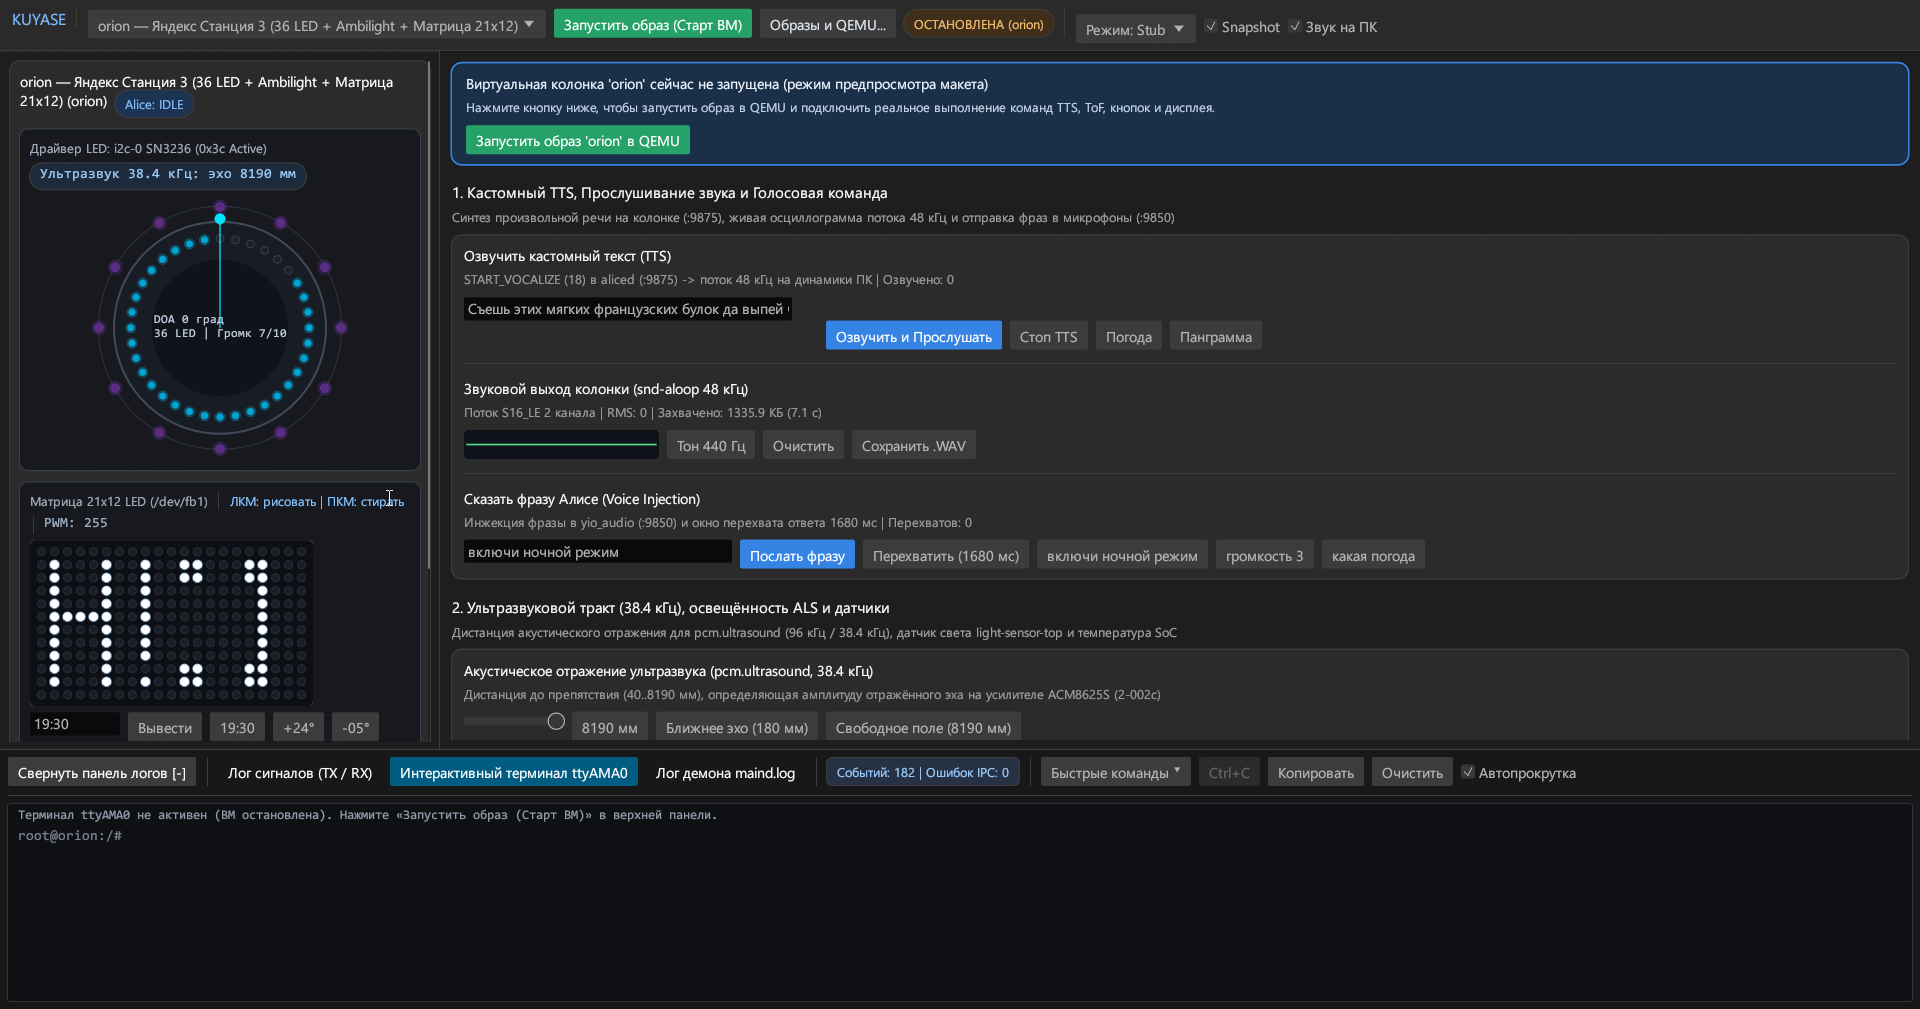
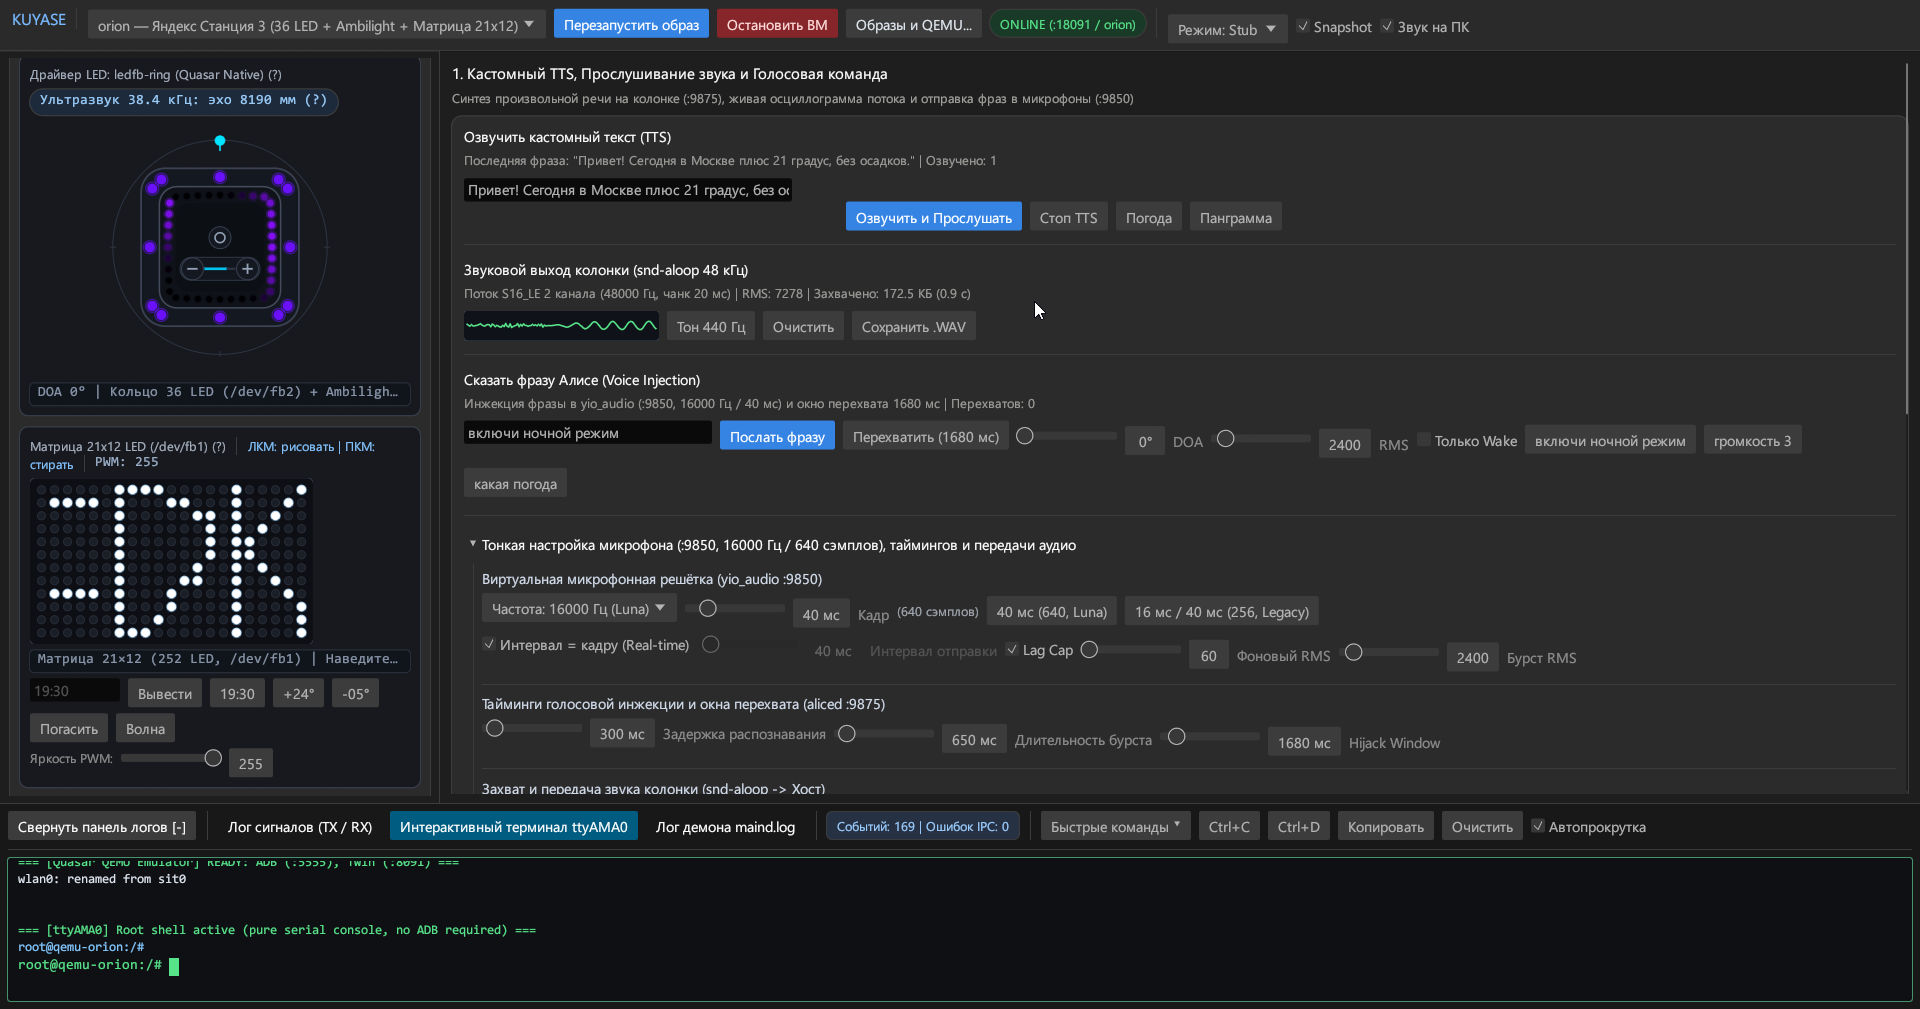
docs: document headless runner, ADR-0001, and updated GUI screenshots

diff --git a/README.md b/README.md
@@ -11,6 +11,8 @@
 > Репозиторий содержит только исходный код Cargo Workspace (`protocol`, `hw-bridge`, `kuyase`), гостевой инициализатор и конфигурацию ядра Linux. Дамп прошивки необходимо снять со своей колонки по ADB (см. [`DUMP_GUIDE.md`](./DUMP_GUIDE.md)), собрать или взять из тематических ресурсов.
 
 ![](assets/GUI.png)
+![](assets/GUI2.png)
+![](assets/GUI3.png)
 
 https://github.com/user-attachments/assets/0a25b0c4-0914-45d7-bdc7-101630d444c2
 
@@ -18,7 +20,7 @@ https://github.com/user-attachments/assets/0a25b0c4-0914-45d7-bdc7-101630d444c2
 
 ## Быстрый старт (готовая портативная сборка)
 
-Для запуска готовой сборки из [**GitHub Releases**](https://github.com/vypivshiy/kuyase/releases) (`kuyase-win64-portable.zip` для Windows x64 или `kuyase-linux64-portable.tar.gz` для Linux x64) не требуется устанавливать Rust, WSL2 или `adb` — пропатченное гостевое ядро `kuyase-kernel-arm64.img`, гостевой инициализатор и демон `qemu-hw-bridge` уже включены в архив.
+Для запуска готовой сборки из [**GitHub Releases**](https://github.com/vypivshiy/kuyase/releases) (`kuyase-win64-portable.zip` для Windows x64 или `kuyase-linux64-portable.tar.gz` для Linux x64; для CI и E2E-тестов без графического окружения — минимальные архивы `kuyase-headless-win64.zip` и статический `kuyase-headless-linux64.tar.gz`) не требуется устанавливать Rust, WSL2 или `adb` — пропатченное гостевое ядро `kuyase-kernel-arm64.img`, гостевой инициализатор и демон `qemu-hw-bridge` уже включены в архив.
 
 ### 1. Установка QEMU
 
@@ -65,8 +67,15 @@ https://github.com/user-attachments/assets/0a25b0c4-0914-45d7-bdc7-101630d444c2
 cargo build --release -p qemu-hw-bridge --target armv7-unknown-linux-musleabihf
 cp -f target/armv7-unknown-linux-musleabihf/release/qemu-hw-bridge guest-init/bin/qemu-hw-bridge
 
-# 2. Сборка нативного приложения и CLI-раннера kuyase:
+# 2. Сборка нативного приложения (GUI + CLI) kuyase:
 cargo build --release -p kuyase
+
+# 3. Опционально: сборка легковесного headless-раннера без GUI (без зависимости eframe):
+cargo build --release -p kuyase --no-default-features
+
+# 4. Опционально: статическая кросс-компиляция Linux x86_64 headless-раннера (musl, работает в любых CI-контейнерах):
+rustup target add x86_64-unknown-linux-musl
+cargo build --release -p kuyase --no-default-features --target x86_64-unknown-linux-musl
 ```
 
 ### 3. Пересборка гостевого ядра (Linux / WSL2)

diff --git a/CONTEXT.md b/CONTEXT.md
@@ -40,6 +40,10 @@ _Avoid_: веб-бэкенд, HTTP-сервер, сервер дашборда.
 Интерактивная 60 FPS графическая сцена и рабочее пространство нативного десктопного приложения `kuyase` (`eframe` / `egui`), подключённое к аппаратному мосту по дуплексному TCP-потоку (`:18091 -> :8091`), визуализирующее светодиоды, дисплей, датчики и звук колонки в реальном времени и отправляющее команды `HostCommand`.
 _Avoid_: веб-панель, браузерный дашборд, админка.
 
+**Безголовый раннер (`Headless Runner` / `kuyase-headless`)**:
+Автономная CLI-сборка эмулятора без графической подсистемы и оконных зависимостей ОС, предназначенная для запуска гостевых образов, снятия дампов, подготовки `.ext4` и прогона автоматизированных сквозных (E2E) и интеграционных тестов в CI и контейнерных окружениях.
+_Avoid_: консольная версия, серверный демон, урезанный эмулятор.
+
 **Режим стабов (`Stub Mode`)**:
 Штатный режим запуска эмулятора (`quasar.mode=stub`), при котором оригинальный монолит `maind` отключён, а локальные IPC-сокеты, звуковой тракт и светодиодные анимации обслуживаются аппаратным мостом.
 _Avoid_: лёгкий режим (`lightweight`), демо-режим, мок-режим.

diff --git a/docs/adr/0001-headless-builds-and-musl-target.md b/docs/adr/0001-headless-builds-and-musl-target.md
@@ -1,0 +1,10 @@
+# Headless CLI Builds via Optional `gui` Feature and Static Linux `musl` Target
+
+Status: accepted
+
+We gate `eframe` and `kuyase::gui` behind a default-enabled Cargo feature (`gui`) in the `kuyase` crate and distribute standalone `kuyase-headless` (`x86_64-unknown-linux-musl` via `rust-lld`) and `kuyase-headless.exe` (`x86_64-pc-windows-msvc`) binaries in dedicated minimal release archives (`kuyase-headless-linux64.tar.gz`, `kuyase-headless-win64.zip`). Full desktop builds (`kuyase` / `kuyase.exe`) preserve launching the GUI when invoked with no arguments, while both builds require an explicit `--headless` flag for headless `run` invocations so accidental double-clicks on `kuyase-headless` fail fast with usage instructions rather than silently starting a background VM.
+
+## Considered Options
+
+- **Feature flag (`default = ["gui"]`) in `kuyase` vs. separate workspace crate**: Every non-GUI module in `kuyase` is already pure Rust with zero references to `eframe` or `crate::gui`; an optional `gui` feature eliminates `eframe` from the dependency graph under `--no-default-features` without duplicating CLI argument parsing or splitting the crate.
+- **Static `x86_64-unknown-linux-musl` vs. dynamic `x86_64-unknown-linux-gnu` for Linux headless builds**: Because `kuyase` without `eframe` has only pure-Rust dependencies (`miniz_oxide`, `tar`, `zip`, `serde`), targeting `x86_64-unknown-linux-musl` with `rust-lld` produces a zero-dependency static ELF that runs in any minimal CI container (without `glibc`, X11, Wayland, or OpenGL libraries) and cross-compiles directly from a Windows host without WSL2.

diff --git a/tests_e2e/README.md b/tests_e2e/README.md
@@ -28,5 +28,6 @@ KUYASE_E2E_BOARD=station2 python -m unittest tests_e2e/test_03_airplay.py -v
 | Переменная | Назначение |
 | :--- | :--- |
 | `KUYASE_E2E_BOARD` | Профиль платы (например, `station2`, `cucumber`, `orion`) или список через запятую. По умолчанию обходит все `work/*-system.ext4`. |
+| `KUYASE_BIN` | Явный путь к исполняемому файлу `kuyase` или `kuyase-headless` (по умолчанию ищет `kuyase[.exe]` и `kuyase-headless[.exe]` в `target/release/`, `target-headless/release/`, `Releases/` и корне репозитория). |
 | `YAM_REPO_DIR` | Путь к локальной рабочей копии репозитория `yam` (по умолчанию `../yam`, если каталог существует, иначе берётся из `nyakokitsu/yam`). |
 | `KUYASE_AIRPLAY_PKG` | Путь к локальному пакету `station-airplay-*.yampkg` для `test_03_airplay.py` (по умолчанию скачивается из `ryysel/Station-airplay` Releases). |
